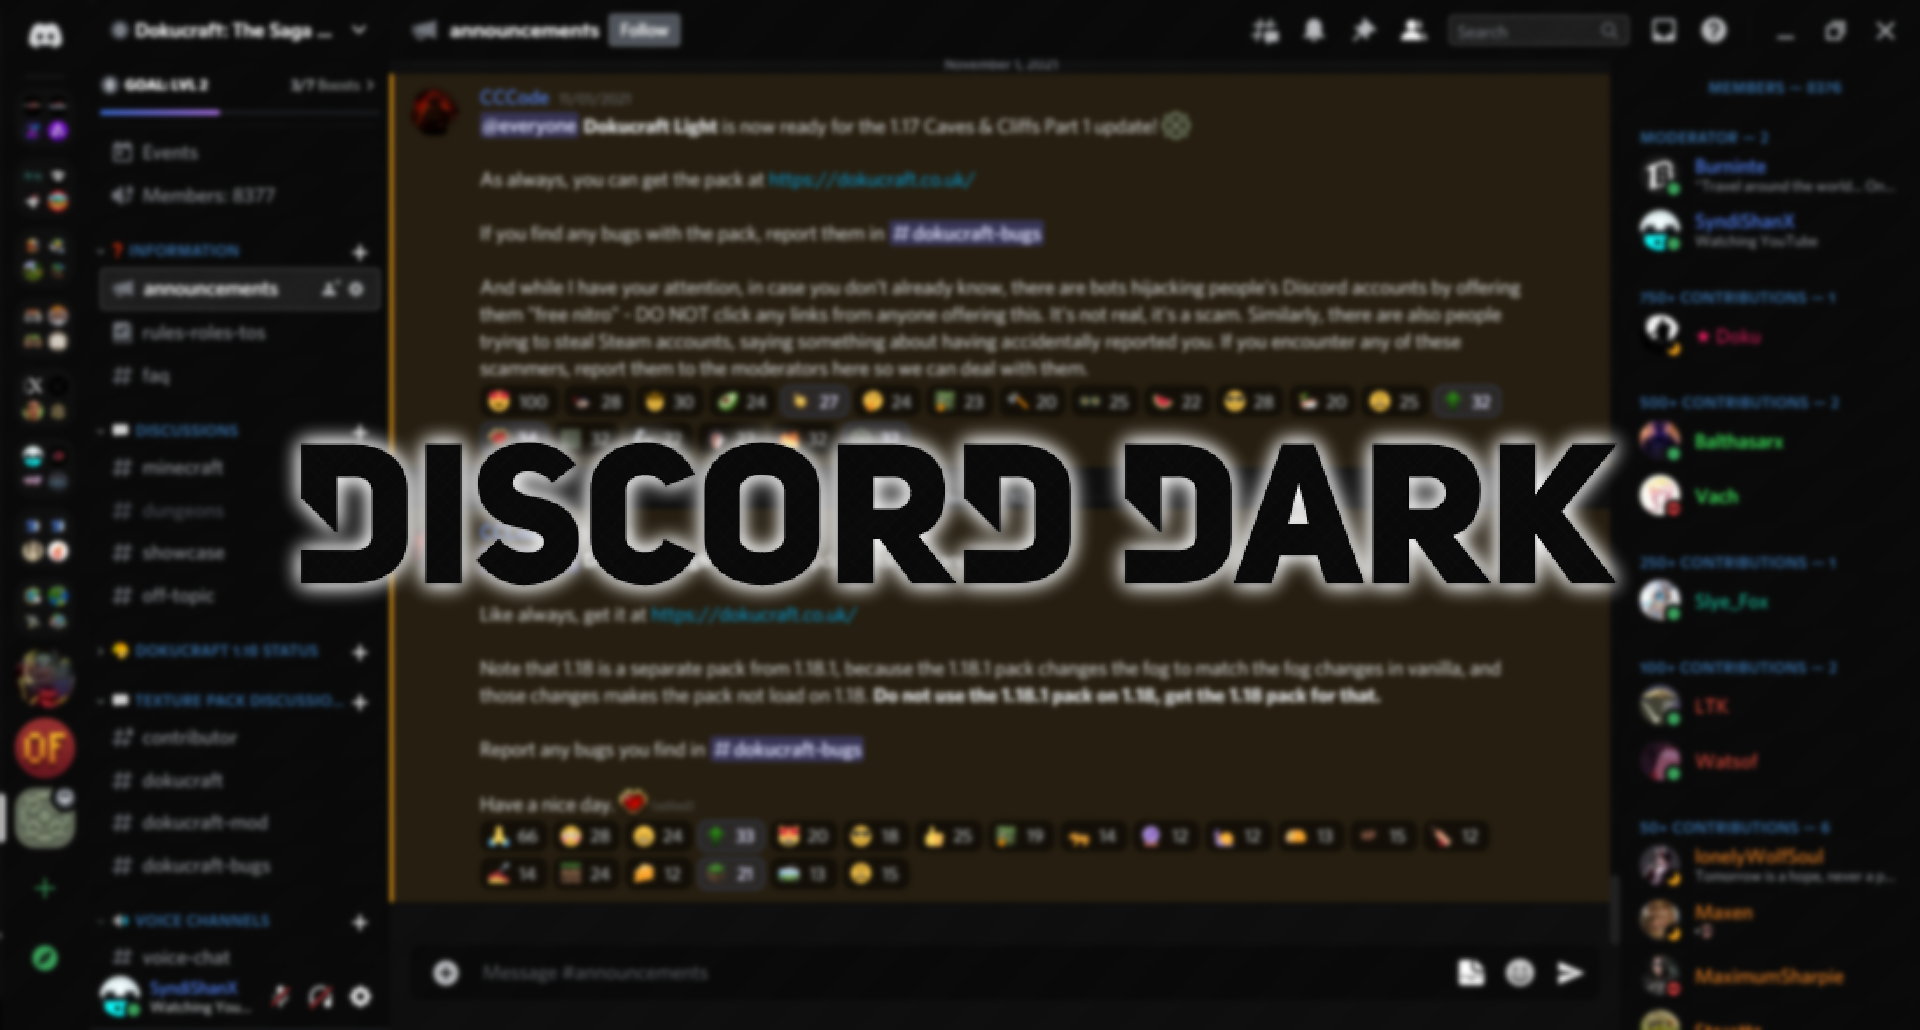
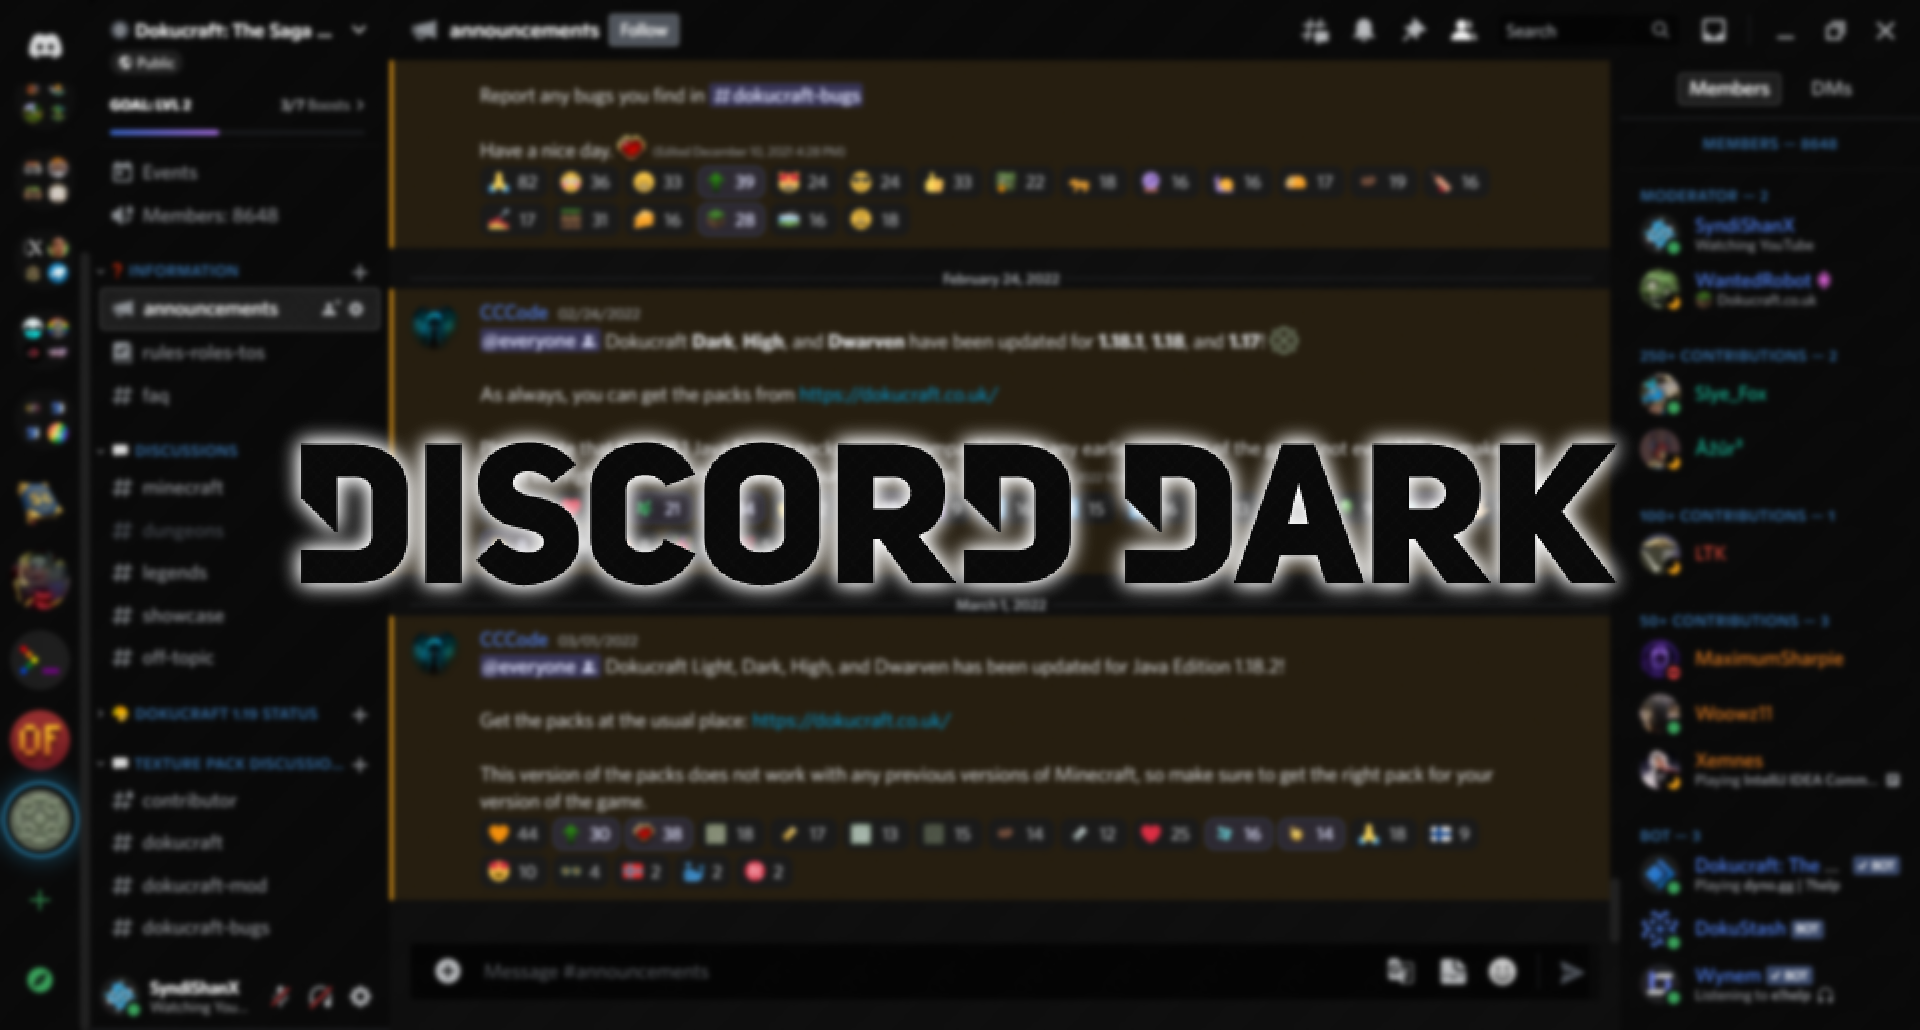
Added CSS Snippets

diff --git a/discorddark.theme.css b/discorddark.theme.css
@@ -2,7 +2,7 @@
  * @name Discord Dark
  * @description A Github Dark Theme for Discord, meant to be used with Discord Dark Mode
  * @author SyndiShanX#4620
- * @version 1.19
+ * @version 1.20
  * @website https://syndishanx.github.io/Discord-Dark
  * @source https://github.com/SyndiShanX/Discord-Dark
 */
@@ -16,9 +16,15 @@
 /* Invites Redesign - Disease */
 @import url(https://maendisease.github.io/BetterDiscordStuff/css/bettterInvites.css);
 
+/* Better Inbox - Disease */
+@import url(https://maendisease.github.io/BetterDiscordStuff/css/bearableInbox.css);
+
+/* Server Rings - Gibbu */
+@import url("https://discordstyles.github.io/SoftX/ServerRings.css");
+
 :root {
 	--theme: Discord Dark by SyndiShanX;                           /* Update Warning                                                         */
-	--version-1-19: none;                                          /* Replaces Default Discord Colors                                        */
+	--version-1-20: none;                                          /* Replaces Default Discord Colors                                        */
 	--background-primary: rgba(0, 0, 0, 0);                        /*                                                                        */
 	--background-secondary: #1a1a1a;                               /*                                                                        */
 	--background-tertiary: rgba(0, 0, 0, 0.5);                     /*                                                                        */
@@ -47,7 +53,12 @@
 	--GIFtButtons: none;                                           /* Icons Gap                                                              */
 	--settingsiconsgap: 14px;                                      /* Settings Sidebar Width                                                 */
 	--sidebar-width: 245px;                                        /* Scrollbar Width                                                        */
-	--scrollbar-width: 8px;                                        /* Discord Opacity | Transparency Needs to be Enabled                     */
+	--scrollbar-width: 8px;                                        /* Server Rings - Unread Color                                            */
+	--server-unread-colour: 194, 178, 60;                          /* Server Rings - Hover Color                                             */
+  --server-hover-colour: 186, 186, 186;                          /* Server Rings - Selected Color                                          */
+  --server-selected-colour: var(--accent, 53, 175, 234);         /* Server Rings - Spacing                                                 */
+  --server-spacing: 16px;                                        /* Server Rings - Glow Intensity                                          */
+  --server-glow-intensity: 1;                                    /* Discord Opacity | Transparency Needs to be Enabled                     */
 	--discord-opacity: 1.0;                                        /* Images are Stored here to improve Loading times, more info in css file */	
 	/*
 		Images are Stored here to improve Loading times, to get the Image Code:

diff --git a/discorddark.css b/discorddark.css
@@ -1,7 +1,7 @@
 /* Update Warning - _david_ */
 #app-mount .app-2CXKsg::before {
 	content: "Your version of Discord Dark is outdated. Please download the newest version from: https://betterdiscord.app/theme/Discord Dark";
-	display: var(--version-1-19, block);
+	display: var(--version-1-20, block);
 	background-color: #4a90e2;
 	color: #fff;
 	font-size: 14px;
@@ -327,11 +327,13 @@ h2.name-3BUDLf, h2.membersGroup-2eiWxl, .name-3BUDLf .overflow-1wOqNV {
 }
 .guilds-2JjMmN .scroller-3X7KbA {
   contain: unset;
-  margin-top: 56px;
+  margin-top: 68px;
 }
 .guilds-2JjMmN .scroller-3X7KbA .tutorialContainer-1pL9QS {
   position: fixed;
-  transform: translatey(-100%);
+  transform: translatey(-112%);
+	margin-top: 12px;
+	margin-left: 12px;
 }
 
 /* Revert Role Design - Ashtrath */
@@ -617,6 +619,36 @@ h2.name-3BUDLf, h2.membersGroup-2eiWxl, .name-3BUDLf .overflow-1wOqNV {
 }
 .edited-1v5nT8:not(.message-translate-indicator) {
 	display: none;
+}
+
+/* Limited Size Code Blocks - ItMeSarah —  */
+.markup-eYLPri blockquote, .markup-eYLPri pre > code{
+	max-height: 500px;
+	overflow-x: hidden;
+	overflow-y: scroll;
+}
+.markup-eYLPri blockquote::-webkit-scrollbar, .markup-eYLPri pre > code::-webkit-scrollbar {
+	width: 15px;
+	height: 15px;
+}
+.markup-eYLPri blockquote::-webkit-scrollbar-track , .markup-eYLPri pre > code::-webkit-scrollbar-track {
+	border-radius: 10px;
+	background-color: rgba(255 255 255 / 8%);
+}
+.markup-eYLPri blockquote::-webkit-scrollbar-thumb, .markup-eYLPri pre > code::-webkit-scrollbar-thumb {
+	background-color: rgb(13 81 239 / 70%);
+	border-radius: 10px;
+}
+.markup-eYLPri blockquote, .markup-eYLPri pre > code {
+	max-width: 629px;
+}
+
+/* Server Rings Edit - Sidebar Fix and Click Animation Reducer */
+.wrapper-1_HaEi .guilds-2JjMmN {
+	width: 90px;
+}
+#app-mount .blobContainer-ikKyFs:active, #app-mount .listItemWrapper-3d87LP:active {
+  transform: scale(0.95);
 }
 
 /* Syntax Naming - CodeDotSpectra */
